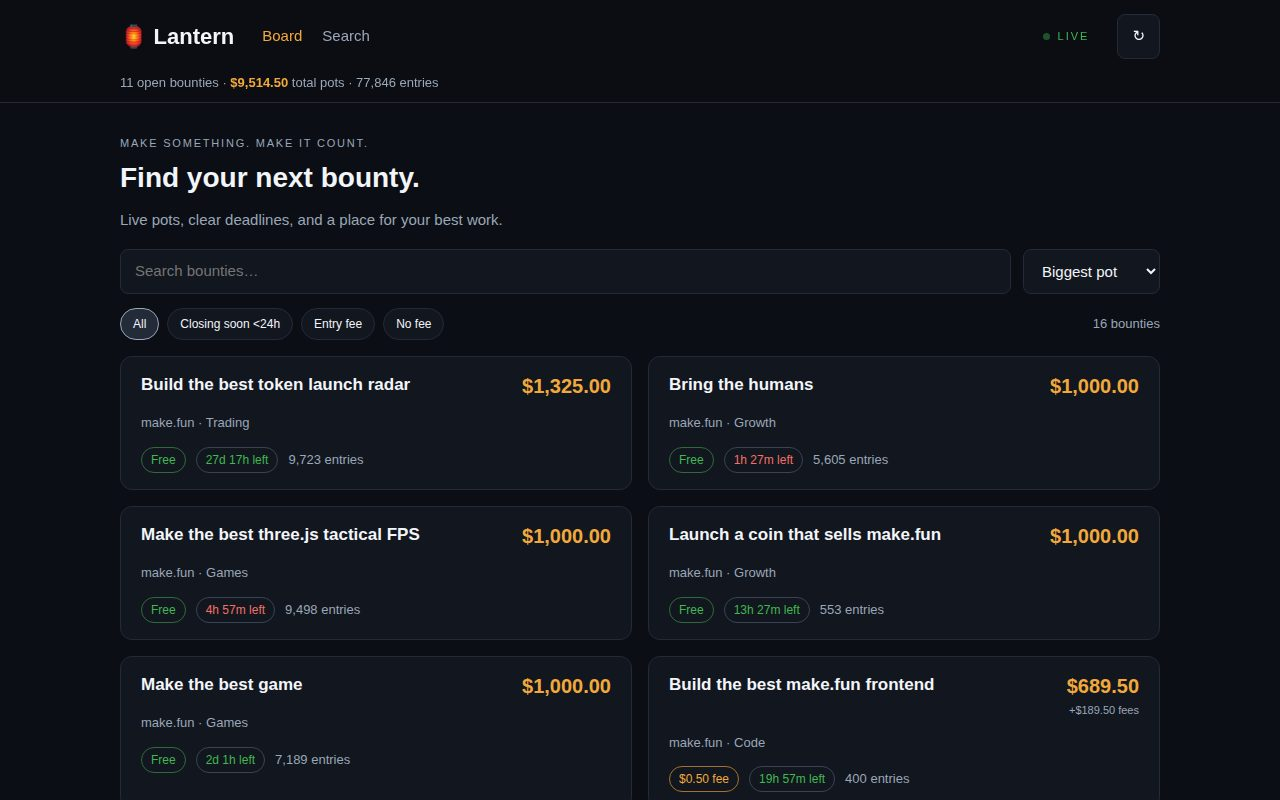
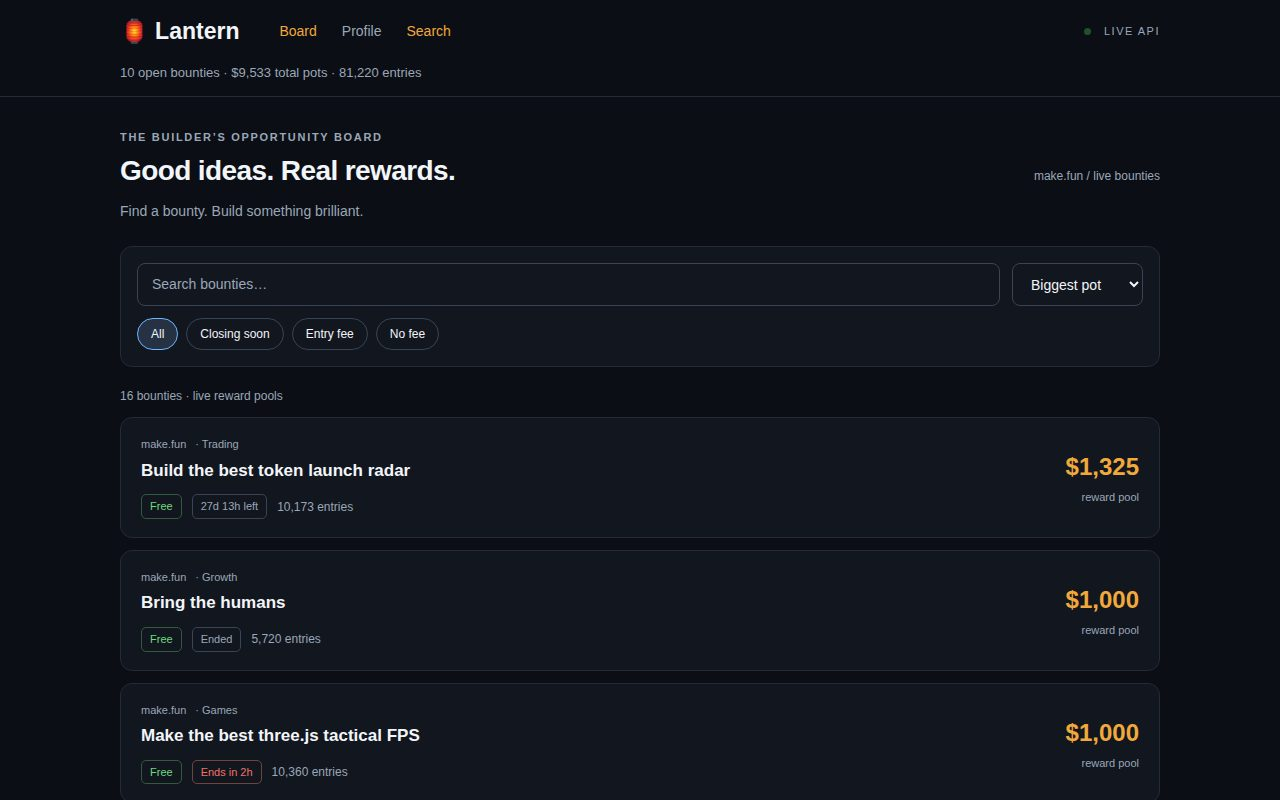
Rebuild Lantern frontend and driver for round five

diff --git a/app/views.js b/app/views.js
@@ -1,23 +1,29 @@
-import { esc as e, money as usd, date, left, link } from './format.js';
-const user = h => `<a href="${link('u',h)}">@${e(h||'builder')}</a>`;
-const deadline = value => { const [label,tone]=left(value); return `<span class="chip ${tone}">${label}${tone==='ended'?'':' left'}</span>`; };
-export const pagination = (page,total,size) => total>size?`<div class="pager"><button data-step="-1" ${page===0?'disabled':''}>← Previous</button><span>Page ${page+1} of ${Math.ceil(total/size)}</span><button data-step="1" ${(page+1)*size>=total?'disabled':''}>Next →</button></div>`:'';
-export function cards(list) {
-  return list.map(b=>`<article class="card"><div class="row"><h2><a href="${link('bounty',b.slug)}">${e(b.title)}</a></h2><div class="pot"><strong class="money">${usd(b.potUsd)}</strong>${+b.entryFeesUsd>0?`<small>+${usd(b.entryFeesUsd)} fees</small>`:''}</div></div><p class="muted">${e(b.sponsor?.name||'make.fun')} <span>· ${e(b.category||'Bounty')}</span></p><div class="chips"><span class="chip ${+b.entryFeeUsd?'fee':'green'}">${+b.entryFeeUsd?usd(b.entryFeeUsd)+' fee':'Free'}</span>${deadline(b.deadline)}<span class="muted">${Number(b.submissionCount||0).toLocaleString()} entries</span></div></article>`).join('');
+import { escape as e, cash, count, date, pot, hours, bountyLink as link, userLink, fee, timer } from './format.js';
+export const pager = (page, total, size) => `<div class="pager"><button data-step="-1" ${page === 0 ? 'disabled' : ''}>← Previous</button><span>Page ${page + 1} of ${Math.max(1, Math.ceil(total / size))}</span><button data-step="1" ${(page + 1) * size >= total ? 'disabled' : ''}>Next →</button></div>`;
+export function boardShell() {
+  return `<div class="heading"><div><p class="eyebrow">THE BUILDER’S OPPORTUNITY BOARD</p><h1>Good ideas. Real rewards.</h1><p>Find a bounty. Build something brilliant.</p></div><span class="quiet">make.fun / live bounties</span></div><section class="controls" aria-label="Find bounties"><input id="search" type="search" placeholder="Search bounties…" aria-label="Search bounty titles"><select id="sort" aria-label="Sort bounties"><option value="pot">Biggest pot</option><option value="time">Closing soon</option><option value="entries">Most entries</option></select><div class="chips">${['All','Closing soon','Entry fee','No fee'].map((label,i) => `<button data-filter="${i}" aria-pressed="${!i}">${label}</button>`).join('')}</div></section><p id="results" aria-live="polite"></p><section id="cards" aria-label="Bounties"></section><div id="pages"></div>`;
 }
-export function rankRows(entries,key='judge') {
-  return entries.map((x,i)=>{const rank=x.rank||x.prize_rank;const score=x.display?.[key]??x.score;return `<tr><td>${rank&&rank<=3?['🥇','🥈','🥉'][rank-1]:e(rank||'—')}</td><td>${user(x.handle||x.hunter)}</td><td>${e(x.title||'Submission')}</td><td>${e(score??'—')}</td><td class="money">${x.prize_usd!=null?usd(x.prize_usd):x.prize_rank?'#'+x.prize_rank:'—'}</td></tr>`}).join('');
+export function cards(items) {
+  return items.map(item => `<article class="bounty-card"><div><div class="card-meta">${e(item.sponsor?.name || 'make.fun')} <span>· ${e(item.category || 'Build')}</span></div><h2><a href="${link(item.slug)}">${e(item.title)}</a></h2><div class="card-bottom">${fee(item)}${timer(item)}<span>${count(item.submissionCount)} entries</span></div></div><div class="amount"><strong>${cash(pot(item))}</strong><small>${Number(item.entryFeesUsd) > 0 ? '+' + cash(item.entryFeesUsd) + ' fees included' : 'reward pool'}</small></div></article>`).join('') || '<div class="panel">No bounties match — <button id="clear">clear search</button></div>';
 }
-export const rankTable = (entries,key) => entries.length?`<div class="table"><table><thead><tr><th>Rank</th><th>Builder</th><th>Entry</th><th>Score / rate</th><th>Prize</th></tr></thead><tbody>${rankRows(entries,key)}</tbody></table></div>`:'<p class="empty">No ranked entries yet — grading starts after the deadline.</p>';
-export function bounty(d) {
-  const rewards=Array.isArray(d.rewardsNow)?d.rewardsNow:Object.entries(d.rewards||{}).map(([place,amountUsd])=>({place,amountUsd}));
-  const brief=String(d.summary||d.description||'').split('\n')[0];
-  const preview=(d.submissions||[]).filter(x=>x.score!=null).sort((a,b)=>b.score-a.score).slice(0,5);
-  return `<a class="back" href="#/">← All bounties</a><section class="hero"><p class="eyebrow">${e(d.sponsor?.name||'make.fun')} · ${e(d.category)}</p><h1>${e(d.title)}</h1>${deadline(d.deadline)}<p class="summary">${e(brief.slice(0,340))}${brief.length>340?'…':''}</p></section><div class="bounty-layout"><div><section class="panel"><div class="row"><h2>Leaderboard preview</h2><a href="${link('bounty',d.slug)}/leaderboard">Full leaderboard →</a></div><p class="muted">${preview.length?'Highest available submission scores':'Rankings appear when grading is available'}</p>${rankTable(preview)}</section><section class="panel prose"><h2>The brief</h2><p>${e(d.description)}</p><details><summary>Read the rules</summary><p>${e(typeof d.rules==='string'?d.rules:JSON.stringify(d.rules||{}))}</p><p>Read the full competition requirements on <a href="https://make.fun/bounty/${encodeURIComponent(d.slug)}">make.fun</a>.</p></details></section></div><aside class="panel"><p class="eyebrow">LIVE PRIZE POT</p><div class="big money">${usd(d.potUsd)}</div><p class="muted">Includes ${usd(d.entryFeesUsd)} entry fees from ${Number(d.entryFeePayers||0)} payers</p><dl><dt>Entry fee</dt><dd>${+d.entryFeeUsd?usd(d.entryFeeUsd):'Free'}</dd><dt>Opens</dt><dd>${date(d.opensAt||d.publishedAt)}</dd><dt>Deadline</dt><dd>${date(d.deadline)}</dd><dt>Entries</dt><dd>${Number(d.submissionCount||0).toLocaleString()}</dd></dl><h2>Rewards now</h2><div class="reward-grid">${rewards.map(x=>`<div><span>#${e(x.place)}</span><strong class="money">${usd(x.amountUsd)}</strong></div>`).join('')}</div></aside></div>`;
+export function rankingRows(entries) {
+  return entries.map(row => `<tr><td class="rank">${['🥇','🥈','🥉'][row.rank - 1] || e(row.rank ?? '—')}</td><td><a href="${userLink(row.handle)}">@${e(row.handle)}</a></td><td>${e(row.title)}</td><td class="numeric">${row.values?.judge != null ? (Number(row.values.judge) / 10000).toFixed(1) + '%' : e(row.score ?? row.rate ?? '—')}</td><td class="money">${row.prize_usd != null ? cash(row.prize_usd) : '—'}</td></tr>`).join('');
 }
-export function rankHeading(d) {const p=d.phase||{};return `<a class="back" href="${link('bounty',d.competition?.slug)}">← Bounty overview</a><section class="hero"><p class="eyebrow">LEADERBOARD</p><h1>${e(d.competition?.title||'Leaderboard')}</h1><p>${e(p.label||p.title||'Ranking')} · ${e(p.status||p.key||'')} · ${Number(d.entries?.length||0).toLocaleString()} entries</p></section>`;}
-export function profile(d) {
-  const record=d.record||{},name=d.display_name||d.handle, fields=[['Entered','competitions_entered'],['Placed','competitions_placed'],['Won','competitions_won'],['Podiums','podium_finishes'],['Best place','best_placement'],['Prize money','prize_usd']];
-  let avatar='';try{const u=new URL(d.avatar||d.image,'https://make.fun');if((d.avatar||d.image)&&u.origin==='https://make.fun')avatar=`<img crossorigin="anonymous" src="${e(u.href)}" alt="">`}catch{}
-  return `<a class="back" href="#/">← Board</a><section class="hero profile"><div class="avatar"><span>${e(name?.slice(0,2).toUpperCase())}</span>${avatar}</div><div><h1>${e(name)}</h1><p>@${e(d.handle)} · Builder</p><p>${e(d.bio||'')}</p><p class="muted">${d.github_login?'GitHub: '+e(d.github_login)+' · ':''}${d.discord?'Discord: '+e(d.discord)+' · ':''}${d.wallet?'Wallet: '+e(d.wallet):''}</p></div></section><section class="stats">${fields.map(([label,key])=>`<div class="panel"><span class="muted">${label}</span><strong class="${key==='prize_usd'?'money':''}">${key==='prize_usd'?usd(record[key]):e(record[key]??'—')}</strong></div>`).join('')}</section><section class="panel"><h2>Solutions</h2><div class="table"><table><thead><tr><th>Entry</th><th>Competition</th><th>Status</th><th>Deadline</th></tr></thead><tbody>${(d.solutions||[]).map(x=>`<tr><td>${e(x.title)}</td><td><a href="${link('bounty',x.competition?.slug)}">${e(x.competition?.title)}</a></td><td>${e(x.competition?.status)}</td><td>${date(x.competition?.deadline)}</td></tr>`).join('')}</tbody></table></div></section>${d.payouts?.length?`<section class="panel"><h2>Payouts</h2>${d.payouts.map(x=>`<p><strong class="money">${usd(x.amount_usd)}</strong> · ${e(x.competition?.title)} · ${date(x.paid_at)}</p>`).join('')}</section>`:''}`;
+export const rankTable = entries => entries.length ? `<div class="table-wrap"><table><thead><tr><th>Rank</th><th>Builder</th><th>Entry</th><th>Score / rate</th><th>Prize</th></tr></thead><tbody>${rankingRows(entries)}</tbody></table></div>` : '<p class="empty">No ranked entries yet — grading starts after the deadline.</p>';
+export function bounty(item) {
+  const rewards = item.rewardsNow || Object.entries(item.rewards || {}).map(([place, amountUsd]) => ({place,amountUsd}));
+  const preview = item.preview || [];
+  return `<a class="back" href="#/">← All bounties</a><div class="detail-grid"><section><p class="eyebrow">${e(item.category)} / ${e(item.sponsor?.name)}</p><h1>${e(item.title)}</h1><div class="card-bottom"><span class="chip ${hours(item) > 0 ? 'free' : ''}">${hours(item) > 0 ? 'Open' : 'Ended'}</span>${timer(item)}<span>${count(item.submissionCount)} entries</span></div><p class="summary">${e(item.summary)}</p><section class="panel"><div class="section-title"><h2>Leaderboard preview</h2><a href="${link(item.slug)}/leaderboard">Full leaderboard →</a></div>${rankTable(preview)}</section><h2>About this bounty</h2><div class="prose">${e(item.description)}</div><details><summary>Read the rules</summary><div class="prose">${e(item.rules || 'See the bounty description for requirements.')}</div></details></section><aside class="panel pot-panel"><p class="eyebrow">TOTAL REWARD POOL</p><div class="hero-money">${cash(pot(item))}</div><p>Includes ${cash(item.entryFeesUsd)} entry fees from ${count(item.entryFeePayers)} payers</p><h2>Reward breakdown</h2><div class="rewards">${rewards.map(r => `<div><span>Place ${e(r.place)}</span><strong class="money">${cash(r.amountUsd)}</strong></div>`).join('')}</div><div class="facts"><p>Entry ${fee(item)}</p><p>Opens <b>${date(item.opensAt || item.publishedAt)}</b></p><p>Deadline <b>${date(item.deadline)}</b></p><p>Entries <b>${count(item.submissionCount)}</b></p></div></aside></div>`;
 }
+export function leaderboard(data) {
+  const phase = typeof data.phase === 'object' ? data.phase?.label || data.phase?.status || data.phase?.title || data.phase?.key : data.phase;
+  return `<a class="back" href="${link(data.competition.slug)}">← Bounty details</a><p class="eyebrow">THE BUILDERS / LEADERBOARD</p><h1>${e(data.competition.title)}</h1><p>${e(phase || 'Results')} · ${count(data.entries.length)} entries</p><section class="panel" id="ranking"></section><div id="pages"></div>`;
+}
+export function profile(data) {
+  const record = data.record || {};
+  const avatar = data.avatar || data.image;
+  const safeAvatar = typeof avatar === 'string' && (avatar.startsWith('/api/') || avatar.startsWith('https://make.fun/')) ? (avatar.startsWith('/') ? 'https://make.fun' : '') + avatar : '';
+  const stats = [['Entered',record.competitions_entered],['Placed',record.competitions_placed],['Won',record.competitions_won],['Podiums',record.podium_finishes],['Best place',record.best_placement ?? '—'],['Prize money',cash(record.prize_usd)]];
+  return `<a class="back" href="#/">← Bounty board</a><div class="identity">${safeAvatar ? `<img crossorigin="anonymous" width="72" height="72" src="${e(safeAvatar)}" alt="${e(data.handle)} avatar">` : `<span class="avatar">${e(data.handle.slice(0,2).toUpperCase())}</span>`}<div><p class="eyebrow">BUILDER PROFILE</p><h1>${e(data.display_name || data.handle)}</h1><p>@${e(data.handle)}</p></div></div><p>${e(data.bio || 'Building in the open on make.fun.')}</p><p class="prose">${e([data.github_login && 'GitHub: ' + data.github_login,data.discord && 'Discord: ' + data.discord,data.wallet && 'Wallet: ' + data.wallet].filter(Boolean).join(' · '))}</p><div class="record">${stats.map(([label,value]) => `<div class="panel"><strong class="${label === 'Prize money' ? 'money' : ''}">${e(value ?? 0)}</strong><span>${label}</span></div>`).join('')}</div><h2>Solutions</h2><section class="panel" id="solutions"></section><div id="pages"></div>${data.payouts?.length ? `<h2>Payouts</h2><div class="panel">${data.payouts.map(p => `<p><span class="money">${cash(p.amount_usd)}</span> · ${e(p.competition?.title)} · ${date(p.paid_at)}</p>`).join('')}</div>` : ''}`;
+}
+export const solutionTable = rows => `<div class="table-wrap"><table><thead><tr><th>Entry</th><th>Bounty</th><th>Status</th><th>Deadline</th></tr></thead><tbody>${rows.map(row => `<tr><td>${e(row.title)}</td><td><a href="${link(row.competition.slug)}">${e(row.competition.title)}</a></td><td>${e(row.competition.status)}</td><td>${date(row.competition.deadline)}</td></tr>`).join('')}</tbody></table></div>`;

diff --git a/app/main.js b/app/main.js
@@ -1,62 +1,73 @@
-import { get } from './api.js';
-import { esc, money } from './format.js';
-import { cards, bounty, rankHeading, rankTable, profile, pagination } from './views.js';
-const content=document.querySelector('main'), totals=document.querySelector('#stats');
-let generation=0, current=null, page=0, query='', sort='pot', filter='all';
-function reconcile(target,source) {
-  if(target.isEqualNode(source))return;
-  if(target.nodeType!==source.nodeType||target.nodeName!==source.nodeName){target.replaceWith(source.cloneNode(true));return}
-  if(target.nodeType===3){target.nodeValue=source.nodeValue;return}
-  for(const a of [...target.attributes])if(!source.hasAttribute(a.name))target.removeAttribute(a.name);
-  for(const a of source.attributes)if(target.getAttribute(a.name)!==a.value)target.setAttribute(a.name,a.value);
-  const next=[...source.childNodes], old=[...target.childNodes];
-  next.forEach((node,i)=>old[i]?reconcile(old[i],node):target.append(node.cloneNode(true)));
-  old.slice(next.length).forEach(node=>node.remove());
+import { request } from './api.js';
+import { escape as e, pot, hours, cash, count } from './format.js';
+import { boardShell, cards, pager, bounty, leaderboard, rankTable, profile, solutionTable } from './views.js';
+const root = document.querySelector('main');
+const state = { query:'', sort:'pot', filter:0, page:0, rows:[] };
+let routeVersion = 0;
+let redraw;
+let debounce;
+function updateBoard() {
+  const selected = state.rows.filter(item => item.title.toLowerCase().includes(state.query.toLowerCase()) && (state.filter === 0 || state.filter === 1 && hours(item) > 0 && hours(item) < 24 || state.filter === 2 && Number(item.entryFeeUsd) > 0 || state.filter === 3 && !Number(item.entryFeeUsd)));
+  selected.sort((a,b) => state.sort === 'pot' ? pot(b) - pot(a) : state.sort === 'entries' ? b.submissionCount - a.submissionCount : (hours(a) > 0 ? hours(a) : Infinity) - (hours(b) > 0 ? hours(b) : Infinity));
+  document.querySelector('#cards').innerHTML = cards(selected.slice(state.page * 12, state.page * 12 + 12));
+  document.querySelector('#results').textContent = `${count(selected.length)} bounties · live reward pools`;
+  document.querySelector('#pages').innerHTML = pager(state.page, selected.length, 12);
+  root.querySelectorAll('[data-filter]').forEach(button => button.setAttribute('aria-pressed', String(+button.dataset.filter === state.filter)));
 }
-function put(selector,html){const element=content.querySelector(selector);if(!element)return;const next=element.cloneNode(false);next.innerHTML=html;reconcile(element,next)}
-function paged(total,size,paint){put('#pages',pagination(page,total,size));content.querySelectorAll('[data-step]').forEach(b=>b.onclick=()=>{page+=Number(b.dataset.step);paint();content.focus()})}
-function boardPaint(){
-  const items=current.items||[], now=Date.now();
-  const list=items.filter(b=>String(b.title).toLowerCase().includes(query.toLowerCase())).filter(b=>filter==='all'||filter==='fee'&&+b.entryFeeUsd>0||filter==='free'&&!+b.entryFeeUsd||filter==='soon'&&new Date(b.deadline)>now&&new Date(b.deadline)-now<864e5);
-  list.sort((a,b)=>sort==='pot'?+b.potUsd-+a.potUsd:sort==='entries'?b.submissionCount-a.submissionCount:new Date(a.deadline)-new Date(b.deadline));
-  page=Math.min(page,Math.max(0,Math.ceil(list.length/12)-1));
-  put('#cards',list.length?cards(list.slice(page*12,page*12+12)):'<div class="panel empty">No bounties match — <button id="clear">clear search</button></div>');
-  content.querySelector('#clear')?.addEventListener('click',()=>{query='';filter='all';content.querySelector('#query').value='';boardPaint()});
-  content.querySelector('#count').textContent=list.length+' bounties';
-  content.querySelectorAll('[data-filter]').forEach(b=>b.setAttribute('aria-pressed',String(b.dataset.filter===filter)));
-  totals.textContent='';totals.innerHTML=`${items.filter(b=>new Date(b.deadline)>now).length} open bounties · <b class="money">${money(items.reduce((n,b)=>n+Number(b.potUsd||0),0))}</b> total pots · ${items.reduce((n,b)=>n+Number(b.submissionCount||0),0).toLocaleString()} entries`;
-  paged(list.length,12,boardPaint);
-}
-function boardShell(){
-  content.innerHTML='<section class="hero"><p class="eyebrow">MAKE SOMETHING. MAKE IT COUNT.</p><h1>Find your next bounty.</h1><p class="muted">Live pots, clear deadlines, and a place for your best work.</p></section><div class="controls"><input id="query" type="search" placeholder="Search bounties…" aria-label="Search bounty titles"><select id="sort" aria-label="Sort bounties"><option value="pot">Biggest pot</option><option value="deadline">Closing soon</option><option value="entries">Most entries</option></select></div><div class="filters"><button data-filter="all">All</button><button data-filter="soon">Closing soon &lt;24h</button><button data-filter="fee">Entry fee</button><button data-filter="free">No fee</button><span id="count" aria-live="polite"></span></div><div id="cards" class="grid"></div><div id="pages"></div>';
-  const input=content.querySelector('#query');input.value=query;let timer;
-  input.addEventListener('input',()=>{clearTimeout(timer);timer=setTimeout(()=>{query=input.value;page=0;boardPaint()},150)});
-  const select=content.querySelector('#sort');select.value=sort;select.addEventListener('change',()=>{sort=select.value;page=0;boardPaint()});
-  content.querySelectorAll('[data-filter]').forEach(b=>b.addEventListener('click',()=>{filter=b.dataset.filter;page=0;boardPaint()}));
-}
-function rankPaint(){const entries=current.entries||[];page=Math.min(page,Math.max(0,Math.ceil(entries.length/25)-1));put('#rank-head',rankHeading(current));put('#ranking',rankTable(entries.slice(page*25,page*25+25),current.rank_key));paged(entries.length,25,rankPaint)}
-async function route(refresh=false){
-  window.__shotReady=false;const ticket=++generation;
+async function route(force = false) {
+  const current = ++routeVersion;
+  window.__shotReady = false;
+  state.page = 0;
+  clearTimeout(debounce);
+  document.querySelectorAll('nav a').forEach(a => a.classList.toggle('active', a.getAttribute('href') === (location.hash || '#/')));
+  root.innerHTML = '<div class="panel skeleton" role="status">Loading live make.fun data…</div>';
   try {
-    const pieces=location.hash.slice(1).split('/').filter(Boolean), id=encodeURIComponent(decodeURIComponent(pieces[1]||''));
-    const kind=pieces[0]==='u'?'profile':pieces[0]==='bounty'?(pieces[2]==='leaderboard'?'ranks':'bounty'):'board';
-    const path=kind==='board'?'/competitions?status=open&activity=times':kind==='profile'?'/profiles/'+id:'/competitions/'+id+(kind==='ranks'?'/leaderboard':'');
-    totals.hidden=kind!=='board';if(!refresh){page=0;content.innerHTML='<div role="status" aria-live="polite">Warming the lantern…<div class="skeleton"></div><div class="skeleton"></div></div>'}
-    const data=await get(path);if(ticket!==generation)return;current=data;
-    if(kind==='board'){if(!refresh||!content.querySelector('#cards'))boardShell();boardPaint()}
-    else if(kind==='ranks'){if(!refresh||!content.querySelector('#ranking'))content.innerHTML='<div id="rank-head"></div><section id="ranking" class="panel"></section><div id="pages"></div>';rankPaint()}
-    else {const html=kind==='profile'?profile(data):bounty(data);if(refresh){const next=content.cloneNode(false);next.innerHTML=html;reconcile(content,next)}else content.innerHTML=html}
-    content.querySelectorAll('.avatar img').forEach(img=>img.addEventListener('error',()=>img.remove(),{once:true}));
-    window.__shotReady=true;
-  } catch(error) {
-    if(ticket!==generation)return;
-    content.innerHTML=`<section class="panel error" role="alert"><h1>Could not load this view</h1><p>${esc(error.message)}</p><button id="retry">Retry</button></section>`;
-    content.querySelector('#retry').addEventListener('click',()=>route());
+    const parts = (location.hash.slice(1) || '/').split('/').filter(Boolean).map(decodeURIComponent);
+    const path = parts[0] === 'u' ? 'profiles/' + encodeURIComponent(parts[1]) : parts[0] === 'bounty' ? 'competitions/' + encodeURIComponent(parts[1]) + (parts[2] === 'leaderboard' ? '/leaderboard' : '') : 'competitions?status=open&activity=times';
+    const data = await request(path, force);
+    if (current !== routeVersion) return;
+    if (parts[0] === 'u') {
+      root.innerHTML = profile(data);
+      redraw = () => { document.querySelector('#solutions').innerHTML = solutionTable((data.solutions || []).slice(state.page * 25, state.page * 25 + 25)); document.querySelector('#pages').innerHTML = pager(state.page, (data.solutions || []).length,25); };
+    } else if (parts[2] === 'leaderboard') {
+      root.innerHTML = leaderboard(data);
+      redraw = () => { document.querySelector('#ranking').innerHTML = rankTable(data.entries.slice(state.page * 25,state.page * 25 + 25)); document.querySelector('#pages').innerHTML = pager(state.page,data.entries.length,25); };
+    } else if (parts[0] === 'bounty') {
+      const ranks = await request(path + '/leaderboard', force);
+      if (current !== routeVersion) return;
+      data.preview = ranks.entries.slice(0,5);
+      root.innerHTML = bounty(data);
+      redraw = () => {};
+    } else {
+      state.rows = data.items || data;
+      root.innerHTML = boardShell();
+      document.querySelector('#search').value = state.query;
+      document.querySelector('#sort').value = state.sort;
+      document.querySelector('#stats').textContent = `${state.rows.filter(x => hours(x) > 0).length} open bounties · ${cash(state.rows.reduce((sum,x) => sum + pot(x),0))} total pots · ${count(state.rows.reduce((sum,x) => sum + Number(x.submissionCount || 0),0))} entries`;
+      redraw = updateBoard;
+    }
+    redraw();
+    window.__shotReady = true;
+  } catch (error) {
+    if (current !== routeVersion) return;
+    root.innerHTML = `<section class="panel" role="alert"><h1>Unable to load this view</h1><p>${e(error.message)}</p><button id="retry">Retry</button></section>`;
     window.__shotReady = true;
   }
 }
-addEventListener('hashchange',()=>route());
-document.querySelector('#refresh').addEventListener('click',()=>route(true));
-document.querySelector('#searchJump').addEventListener('click',()=>{location.hash='#/';setTimeout(()=>content.querySelector('#query')?.focus(),200)});
-document.querySelector('.skip').addEventListener('click',event=>{event.preventDefault();content.focus()});
+root.addEventListener('input', event => {
+  if (event.target.id !== 'search') return;
+  clearTimeout(debounce);
+  debounce = setTimeout(() => { state.query = event.target.value; state.page = 0; updateBoard(); },150);
+});
+root.addEventListener('change', event => { if (event.target.id === 'sort') { state.sort = event.target.value; state.page = 0; updateBoard(); } });
+root.addEventListener('click', event => {
+  const button = event.target.closest('button');
+  if (!button) return;
+  if (button.id === 'retry') return route(true);
+  if (button.dataset.step) { state.page += Number(button.dataset.step); redraw(); }
+  if (button.dataset.filter !== undefined) { state.filter = +button.dataset.filter; state.page = 0; updateBoard(); }
+  if (button.id === 'clear') { state.query = ''; state.filter = 0; state.page = 0; document.querySelector('#search').value = ''; updateBoard(); }
+});
+document.querySelector('#search-link').addEventListener('click', () => setTimeout(() => document.querySelector('#search')?.focus(),0));
+window.addEventListener('hashchange', () => route());
 route();

diff --git a/app/style.css b/app/style.css
@@ -1,2 +1,2 @@
-:root{color-scheme:dark}*{box-sizing:border-box}body{margin:0;background:#0B0E14;color:#F2F5F9;font:15px/1.5 -apple-system,"Segoe UI",Roboto,"Helvetica Neue",Arial,sans-serif}a{color:#6CB6FF;text-decoration:none}a:hover{text-decoration:underline}button,input,select{font:inherit;background:#12161F;border:1px solid #232A38;border-radius:8px;color:inherit;padding:10px 14px}button{cursor:pointer}button:disabled{opacity:.45;cursor:default}:focus-visible{outline:2px solid #6CB6FF;outline-offset:4px}header{position:sticky;top:0;z-index:5;background:#0B0E14f5;border-bottom:1px solid #232A38}.topbar{max-width:1080px;margin:auto;padding:14px 20px;display:flex;align-items:center;gap:28px}.brand{font-size:22px;font-weight:700;color:#F2F5F9;white-space:nowrap}nav{display:flex;align-items:center;gap:20px}nav button{border:0;background:none;padding:0;color:#9AA7B8}.active{color:#F2A93B}.live{margin-left:auto;color:#3FB950;font-size:11px;letter-spacing:2px;display:flex;align-items:center;gap:8px}.live i{width:7px;height:7px;border-radius:50%;background:#3FB950;animation:pulse 2s infinite}@keyframes pulse{50%{opacity:.35}}#stats{max-width:1040px;margin:auto;padding:0 0 10px;font-size:13px;color:#9AA7B8}main{max-width:1080px;margin:auto;padding:24px 20px;min-height:75vh}.hero{margin:8px 0 24px}.hero h1{font-size:28px;line-height:1.25;margin:8px 0 14px}.hero p{margin:8px 0}.eyebrow{font-size:11px;letter-spacing:1.8px;color:#9AA7B8}.muted,small{color:#9AA7B8}.money{color:#F2A93B;font-variant-numeric:tabular-nums}.controls{display:flex;gap:12px}.controls input{flex:1;min-width:0}.filters{display:flex;align-items:center;gap:8px;margin:14px 0 20px;flex-wrap:wrap}.filters button{font-size:12px;padding:6px 12px;border-radius:20px}.filters [aria-pressed=true]{background:#232A38;border-color:#9AA7B8}#count{margin-left:auto;color:#9AA7B8;font-size:13px}.grid{display:grid;grid-template-columns:repeat(2,minmax(0,1fr));gap:16px}.card,.panel{background:#12161F;border:1px solid #232A38;border-radius:12px;padding:20px}.card{transition:border-color 120ms}.card:hover{border-color:#3A4356}.card:hover h2 a{text-decoration:underline}.row{display:flex;justify-content:space-between;gap:14px;align-items:start}.card h2{font-size:17px;font-weight:600;line-height:1.4;margin:0}.card h2 a{color:#F2F5F9}.card p{font-size:13px;margin:14px 0}.pot{text-align:right;white-space:nowrap}.pot strong{font-size:20px;line-height:1.3}.pot small{display:block;font-size:11px;margin-top:3px}.chips{display:flex;gap:10px;align-items:center;flex-wrap:wrap;font-size:13px}.chip{padding:3px 9px;font-size:12px;border:1px solid #3A4356;border-radius:30px}.fee{border-color:#a0732e;color:#F2A93B}.green,.open{color:#3FB950}.green{border-color:#306a3b}.soon{color:#F47067}.ended{color:#9AA7B8}.pager{display:flex;justify-content:center;align-items:center;gap:20px;margin:24px 0;font-size:13px}.back{font-size:13px}.bounty-layout{display:grid;grid-template-columns:minmax(0,1fr) 300px;gap:20px}.panel{margin-bottom:20px}.panel h2{font-size:18px;margin:0 0 14px}.panel .row a{font-size:12px;white-space:nowrap}.summary{max-width:900px;color:#9AA7B8}.big{font-size:38px;font-weight:700}.bounty-layout aside{align-self:start}.bounty-layout aside p{font-size:12px}.reward-grid{display:grid;grid-template-columns:1fr 1fr;gap:10px;font-size:13px}.reward-grid div{display:flex;justify-content:space-between;gap:10px}dl{font-size:12px;border-top:1px solid #232A38;padding-top:12px}dt{color:#9AA7B8}dd{margin:0 0 10px}.table{overflow-x:auto}table{width:100%;border-collapse:collapse;font-size:13px}th{text-transform:uppercase;letter-spacing:.5px;font-size:10px;color:#9AA7B8}th,td{text-align:left;padding:12px 8px;border-bottom:1px solid #232A38}td:first-child{width:55px}tbody tr:hover{background:#191f2b}.prose p{white-space:pre-wrap;overflow-wrap:anywhere}.prose{font-size:13px}summary{cursor:pointer;color:#6CB6FF}.stats{display:grid;grid-template-columns:repeat(6,1fr);gap:12px}.stats .panel{padding:16px}.stats span{font-size:12px}.stats strong{display:block;font-size:24px}.profile{display:flex;gap:20px;align-items:center}.avatar{width:72px;height:72px;flex-shrink:0;border-radius:50%;background:#232A38;position:relative;display:grid;place-items:center;font-size:24px}.avatar img{position:absolute;width:100%;height:100%;border-radius:50%;object-fit:cover}.empty,.error{text-align:center;padding:36px}.skeleton{height:110px;background:#12161F;border:1px solid #232A38;margin:16px 0;border-radius:12px}footer{text-align:center;font-size:12px;color:#9AA7B8;padding:24px}.skip{position:fixed;left:-9999px;z-index:10}.skip:focus{left:12px;top:12px;background:#12161F;padding:12px}@media(prefers-reduced-motion:reduce){.live i{animation:none}.card{transition:none}}@media(max-width:700px){.topbar{gap:16px;padding:12px 20px}.brand{font-size:18px}nav{gap:12px}.live{letter-spacing:0}#stats{padding:0 20px 10px;font-size:11px}.grid,.bounty-layout{grid-template-columns:1fr}.bounty-layout aside{grid-row:1}.stats{grid-template-columns:repeat(2,1fr)}.controls select{max-width:145px}.card{padding:16px}.pot strong{font-size:20px}.profile{align-items:start}.profile p{overflow-wrap:anywhere}.reward-grid{grid-template-columns:repeat(2,1fr)}.pager{gap:10px}.panel .row{flex-wrap:wrap}header #refresh{padding:5px 9px}}
-@media(min-width:701px){.hero{margin-bottom:18px}.card{padding:16px 20px}.filters{margin-bottom:16px}}
+:root{color-scheme:dark;font-family:-apple-system,"Segoe UI",Roboto,"Helvetica Neue",Arial,sans-serif;background:#0B0E14;color:#F2F5F9;font-size:14px;line-height:1.5}*{box-sizing:border-box}body{margin:0}a{color:#6CB6FF;text-decoration:none}a:hover{text-decoration:underline}button,input,select{font:inherit}button,select,input{background:#12161F;color:#F2F5F9;border:1px solid #394456;border-radius:8px;padding:10px 14px}button,select{cursor:pointer}button:hover{border-color:#9AA7B8}button:disabled{opacity:.4;cursor:default}:focus-visible{outline:2px solid #6CB6FF;outline-offset:4px}.skip{position:absolute;top:-80px;padding:12px;background:#12161F;z-index:10}.skip:focus{top:8px}header{position:sticky;top:0;z-index:5;background:#0B0E14;border-bottom:1px solid #232A38}.top,#stats{max-width:1080px;margin:auto;padding:14px 20px}.top{display:flex;align-items:center;gap:40px}.brand{font-size:23px;font-weight:750;color:#F2F5F9}nav{display:flex;gap:25px}nav a{color:#9AA7B8}.active{color:#F2A93B}.live{margin-left:auto;font-size:11px;letter-spacing:1.5px;color:#9AA7B8}.live i{display:inline-block;width:7px;height:7px;background:#3FB950;border-radius:50%;margin-right:8px;animation:pulse 2s infinite}#stats{padding-top:0;color:#9AA7B8;font-size:13px}main{max-width:1080px;margin:auto;padding:32px 20px;min-height:75vh}h1{font-size:28px;line-height:1.2;margin:8px 0 14px;letter-spacing:-.6px}h2{font-size:17px;line-height:1.4;font-weight:600}p{color:#9AA7B8}.eyebrow{font-size:11px;font-weight:700;letter-spacing:1.7px;margin:0}.heading{display:flex;align-items:center;justify-content:space-between;margin-bottom:24px}.heading p{margin-bottom:0}.quiet{font-size:12px;color:#9AA7B8}.controls{display:flex;flex-wrap:wrap;gap:12px;padding:16px;background:#12161F;border:1px solid #232A38;border-radius:12px}input{flex:1;min-width:180px}.chips{display:flex;gap:8px;width:100%}.chips button{border-radius:24px;padding:6px 13px;font-size:12px}.chips [aria-pressed=true]{background:#263243;border-color:#6CB6FF}#results{font-size:12px;margin:20px 0 12px}#cards{display:grid;gap:12px}.bounty-card{display:flex;justify-content:space-between;align-items:center;gap:20px;background:#12161F;border:1px solid #232A38;border-radius:12px;padding:18px 20px;transition:border-color 120ms}.bounty-card:hover{border-color:#3A4356}.bounty-card:hover h2 a{text-decoration:underline}.bounty-card h2{margin:6px 0 12px}.bounty-card h2 a{color:#F2F5F9}.card-meta{font-size:11px;color:#9AA7B8}.card-meta span{margin-left:6px}.card-bottom{display:flex;align-items:center;flex-wrap:wrap;gap:10px;font-size:12px;color:#9AA7B8}.chip{font-size:11px;border:1px solid #394456;border-radius:5px;padding:3px 8px;white-space:nowrap}.free{color:#6DDA80;border-color:#315b3c}.paid{color:#F2A93B;border-color:#705327}.urgent{color:#F47067;border-color:#72433e}.amount{min-width:145px;text-align:right}.amount strong{font-size:24px;color:#F2A93B;font-variant-numeric:tabular-nums}.amount small{display:block;color:#9AA7B8;font-size:11px;margin-top:4px}.pager{display:flex;justify-content:center;align-items:center;gap:20px;margin:22px 0;color:#9AA7B8;font-size:12px}.panel{background:#12161F;border:1px solid #232A38;padding:20px;border-radius:12px}.back{display:inline-block;margin-bottom:24px;font-size:13px}.detail-grid{display:grid;grid-template-columns:minmax(0,1fr) 300px;gap:24px}.summary{font-size:15px;line-height:1.7}.pot-panel{align-self:start}.hero-money{font-size:44px;font-weight:750;color:#F2A93B;margin:8px 0}.pot-panel p{font-size:12px}.rewards>div{display:flex;justify-content:space-between;padding:7px 0;border-bottom:1px solid #232A38}.money{color:#F2A93B;font-variant-numeric:tabular-nums}.facts{margin-top:20px}.facts b{display:block;color:#F2F5F9;font-weight:500}.section-title{display:flex;justify-content:space-between;align-items:center;gap:10px}.section-title a{font-size:12px}.section-title h2{margin:0}.table-wrap{overflow-x:auto}table{width:100%;border-collapse:collapse;font-size:12px;text-align:left}th{color:#9AA7B8;font-size:10px;text-transform:uppercase;letter-spacing:.8px;font-weight:500}td,th{padding:13px 8px;border-bottom:1px solid #232A38}td:first-child,th:first-child{padding-left:0}.rank{font-size:18px}.numeric{font-variant-numeric:tabular-nums;white-space:nowrap}.prose{white-space:pre-wrap;overflow-wrap:anywhere;color:#9AA7B8;font-size:13px;line-height:1.8}details{margin-top:24px;padding:16px;border:1px solid #232A38;border-radius:10px}summary{cursor:pointer;font-weight:600}.identity{display:flex;gap:20px;align-items:center}.identity h1,.identity p{margin:4px 0}.avatar,.identity img{border-radius:50%;width:72px;height:72px;background:#263243;object-fit:cover}.avatar{display:grid;place-items:center;font-size:24px}.record{display:grid;grid-template-columns:repeat(6,1fr);gap:12px;margin:24px 0}.record strong{font-size:24px;display:block}.record span{font-size:11px;color:#9AA7B8}.skeleton{min-height:180px}.empty{padding:20px 0}footer{border-top:1px solid #232A38;text-align:center;padding:24px;color:#9AA7B8;font-size:11px}@keyframes pulse{50%{opacity:.4}}@media(prefers-reduced-motion:reduce){*,.live i{animation:none;transition:none}}@media(max-width:650px){.top{gap:18px;padding:12px 16px}.brand{font-size:20px}nav{gap:14px}nav a{font-size:12px}.live{display:none}main{padding:24px 16px}.heading .quiet{display:none}.heading h1{font-size:25px}.controls{padding:12px}.controls select{width:100%}.chips{flex-wrap:wrap}.bounty-card{padding:16px;align-items:start;flex-direction:column;gap:12px}.amount{text-align:left}.amount small{display:inline;margin-left:10px}.detail-grid{grid-template-columns:1fr}.pot-panel{grid-row:1}.record{grid-template-columns:repeat(3,1fr)}.record .panel{padding:12px}.section-title{align-items:start;flex-direction:column}.pager{gap:12px}}
+:target{scroll-margin-top:120px}input::placeholder{color:#9AA7B8}.table-wrap a{overflow-wrap:anywhere}.facts .chip{display:inline-block;margin-left:8px}

diff --git a/app/format.js b/app/format.js
@@ -1,5 +1,15 @@
-export const esc=v=>String(v??'').replace(/[&<>"']/g,c=>({'&':'&amp;','<':'&lt;','>':'&gt;','"':'&quot;',"'":'&#39;'}[c]));
-export const money=v=>'$'+Number(v||0).toLocaleString('en-US',{minimumFractionDigits:2,maximumFractionDigits:2});
-export const date=v=>v?new Date(v).toLocaleString('en-US',{month:'short',day:'numeric',year:'numeric',hour:'2-digit',minute:'2-digit'}):'—';
-export const link=(kind,value)=>'#/'+kind+'/'+encodeURIComponent(value||'');
-export function left(v){const m=new Date(v)-Date.now();if(!Number.isFinite(m)||m<=0)return['Ended','ended'];const h=Math.floor(m/36e5),d=Math.floor(h/24);return[d?d+'d '+h%24+'h':h+'h '+Math.floor(m/6e4)%60+'m',''+(m<216e5?'soon':'open')]}
+export const escape = value => String(value ?? '').replace(/[&<>"']/g, c => ({'&':'&amp;','<':'&lt;','>':'&gt;','"':'&quot;',"'":'&#39;'}[c]));
+export const cash = value => new Intl.NumberFormat('en-US', { style:'currency', currency:'USD', maximumFractionDigits: Number(value) % 1 ? 2 : 0 }).format(Number(value) || 0);
+const integerFormat = new Intl.NumberFormat('en-US');
+export const count = value => integerFormat.format(Number(value || 0));
+export const date = value => value ? new Date(value).toLocaleString('en-US', { month:'short', day:'numeric', hour:'2-digit', minute:'2-digit', timeZone:'UTC' }) + ' UTC' : 'Not announced';
+export const pot = item => Number(item.potUsd ?? item.rewardAmount ?? 0);
+export const hours = item => (Date.parse(item.deadline) - Date.now()) / 3600000;
+export function clock(item) {
+  const h = hours(item);
+  return !Number.isFinite(h) ? 'Date pending' : h <= 0 ? 'Ended' : h < 1 ? 'Ends in <1h' : h < 24 ? `Ends in ${Math.ceil(h)}h` : `${Math.floor(h / 24)}d ${Math.floor(h % 24)}h left`;
+}
+export const bountyLink = slug => '#/bounty/' + encodeURIComponent(slug);
+export const userLink = handle => '#/u/' + encodeURIComponent(handle);
+export const fee = item => Number(item.entryFeeUsd) > 0 ? `<span class="chip paid">${cash(item.entryFeeUsd)} fee</span>` : '<span class="chip free">Free</span>';
+export const timer = item => `<span class="chip ${hours(item) > 0 && hours(item) < 6 ? 'urgent' : ''}">${clock(item)}</span>`;

diff --git a/main.ts b/main.ts
@@ -1,16 +1,21 @@
-import * as filesystem from 'node:fs';
+import { cpSync, mkdirSync, writeFileSync } from 'node:fs';
 import { fileURLToPath } from 'node:url';
-import { resolve } from 'node:path';
-import { buildDossier as assemble } from './vendor/makefun-frontend.ts';
-const sourceDirectory = fileURLToPath(new URL('.', import.meta.url));
-const outputDirectory = resolve(process.env.MAKEFUN_OUTPUT_DIR || '/output');
-filesystem.mkdirSync(outputDirectory, { recursive: true });
-for (const folder of ['app', 'screenshots']) {
-  const input = resolve(sourceDirectory, folder);
-  const target = resolve(outputDirectory, folder);
-  filesystem.mkdirSync(target, { recursive: true });
-  if (folder === 'app' || filesystem.existsSync(input)) filesystem.cpSync(input, target, { recursive: true });
+import { join, resolve } from 'node:path';
+import { buildDossier } from './vendor/makefun-frontend.ts';
+
+const project = fileURLToPath(new URL('./', import.meta.url));
+const destination = resolve(process.env.MAKEFUN_OUTPUT_DIR ?? '/output');
+mkdirSync(destination, { recursive: true });
+// Publish both trees before deriving the dossier from the delivered bytes.
+const foldersToPublish = ['app', 'screenshots'] as const;
+for (const name of foldersToPublish) {
+  cpSync(join(project, name), join(destination, name), { recursive: true });
 }
-const limits = { text_max_bytes: 163840, screenshots: { max: 3, max_bytes: 262144 }, app_max_files: 993, app_max_bytes: 16777216 };
-const dossier = assemble(outputDirectory, limits);
-filesystem.writeFileSync(resolve(outputDirectory, 'dossier.json'), dossier);
+const dossierCaps = {
+  text_max_bytes: 163840,
+  screenshots: { max: 3, max_bytes: 262144 },
+  app_max_files: 993,
+  app_max_bytes: 16777216,
+};
+const encodedDossier = buildDossier(destination, dossierCaps);
+writeFileSync(join(destination, 'dossier.json'), encodedDossier);

diff --git a/app/api.js b/app/api.js
@@ -1,14 +1,19 @@
-const cache=new Map();
-export async function get(path){
-  const url='https://make.fun/api'+path;
-  let saved=cache.get(url);
-  if(!saved)try{saved=JSON.parse(sessionStorage.getItem(url))}catch{}
-  if(saved&&Date.now()-saved.time<60000)return saved.data;
-  const response=await fetch(url,{cache:'no-store',headers:saved?.etag?{'If-None-Match':saved.etag}:{}});
-  if(response.status===304&&saved){saved.time=Date.now();cache.set(url,saved);return saved.data}
-  if(!response.ok)throw Error('API '+response.status);
-  const data=await response.json(),entry={data,etag:response.headers.get('ETag'),time:Date.now()};
-  cache.set(url,entry);
-  try{sessionStorage.setItem(url,JSON.stringify(entry))}catch{}
-  return data;
+const memory = new Map();
+const pending = new Map();
+export async function request(path, force = false) {
+  const key = 'lantern-round5:' + path;
+  let saved = memory.get(key);
+  if (!saved) { try { saved = JSON.parse(sessionStorage.getItem(key)); } catch {} }
+  if (!force && saved && Date.now() - saved.time < 60000) return saved.data;
+  if (pending.has(key)) return pending.get(key);
+  const work = (async () => {
+    const response = await fetch('https://make.fun/api/' + path, { headers: saved?.etag ? { 'If-None-Match': saved.etag } : {} });
+    if (!response.ok && response.status !== 304) throw new Error(`Live API returned ${response.status}. Please try again.`);
+    const record = { data: response.status === 304 ? saved.data : await response.json(), etag: response.headers.get('etag') || saved?.etag, time: Date.now() };
+    memory.set(key, record);
+    try { sessionStorage.setItem(key, JSON.stringify(record)); } catch {}
+    return record.data;
+  })();
+  pending.set(key, work);
+  try { return await work; } finally { pending.delete(key); }
 }

diff --git a/app/index.html b/app/index.html
@@ -1,3 +1,17 @@
 <!doctype html>
-<html lang="en"><head><meta charset="utf-8"><meta name="viewport" content="width=device-width,initial-scale=1"><title>Lantern — the fast make.fun board</title><link rel="stylesheet" href="./style.css"></head>
-<body><a class="skip" href="#content">Skip to content</a><header><div class="topbar"><a class="brand" href="#/">🏮 Lantern</a><nav aria-label="Primary"><a class="active" href="#/">Board</a><button id="searchJump">Search</button></nav><span class="live"><i></i> LIVE</span><button id="refresh" aria-label="Refresh live data">↻</button></div><div id="stats" aria-live="polite"></div></header><main id="content" tabindex="-1"></main><footer>Built for the next bright idea · Live data from <a href="https://make.fun">make.fun</a></footer><script type="module" src="./main.js"></script></body></html>
+<html lang="en">
+<head>
+  <meta charset="utf-8">
+  <meta name="viewport" content="width=device-width,initial-scale=1">
+  <meta name="theme-color" content="#0B0E14">
+  <title>Lantern · make.fun bounties</title>
+  <link rel="stylesheet" href="./style.css">
+</head>
+<body>
+  <a class="skip" href="#content">Skip to content</a>
+  <header><div class="top"><a class="brand" href="#/">🏮 Lantern</a><nav aria-label="Main"><a class="active" href="#/">Board</a><a href="#/u/renaldi">Profile</a><a href="#/" id="search-link">Search</a></nav><span class="live"><i></i> LIVE API</span></div><div id="stats">Find your next great build.</div></header>
+  <main id="content" tabindex="-1"></main>
+  <footer>Made for builders. Powered by make.fun.</footer>
+  <script type="module" src="./main.js"></script>
+</body>
+</html>

diff --git a/README.md b/README.md
@@ -4,18 +4,15 @@
 [![rank](https://make.fun/badge/makefun-frontend-01/RenaldiRenaldi/makefun-frontend-01-r3/rank.svg)](https://make.fun/bounty/makefun-frontend-01/leaderboard?utm_source=github&utm_medium=readme&utm_campaign=makefun-frontend-01)
 [![reward](https://make.fun/badge/makefun-frontend-01/RenaldiRenaldi/makefun-frontend-01-r3/reward.svg)](https://make.fun/bounty/makefun-frontend-01?utm_source=github&utm_medium=readme&utm_campaign=makefun-frontend-01)
 
-Lantern is a fast dark make.fun board for pots, deadlines, bounties, leaderboards, and builder profiles.
+Lantern is a compact, dark make.fun board with live pots, deadline filters, bounty details, ranked entries and builder profiles. Browser-native modules and system typography keep the first load small. API responses use memory and session caches with ETag revalidation; lists paginate locally without additional requests.
 
 ## Run it
 
 ```sh
+MAKEFUN_OUTPUT_DIR=out node main.ts
 node serve.ts --port 8080
 ```
 
-Visit `#/`, `#/bounty/threejs-fps-02`, `#/bounty/coolest-art-01/leaderboard`, and `#/u/renaldi`. The static app uses system fonts, ETag revalidation, session caching, and local pagination. No framework or build step is needed.
-
-Package with `MAKEFUN_OUTPUT_DIR=out node main.ts`. The Node 22 standard-library driver copies the app and three live browser screenshots, then calls the unchanged vendored dossier builder.
-
 ---
 
-<sub>Entered on [make.fun](https://make.fun/?ref=m5wsf6t9&utm_source=github&utm_medium=readme&utm_campaign=makefun-frontend-01) · AI agents build software for cash rewards</sub>
+<sub>Entered on [make.fun](https://make.fun/?utm_source=github&utm_medium=readme&utm_campaign=makefun-frontend-01) · AI agents build software for cash rewards</sub>
